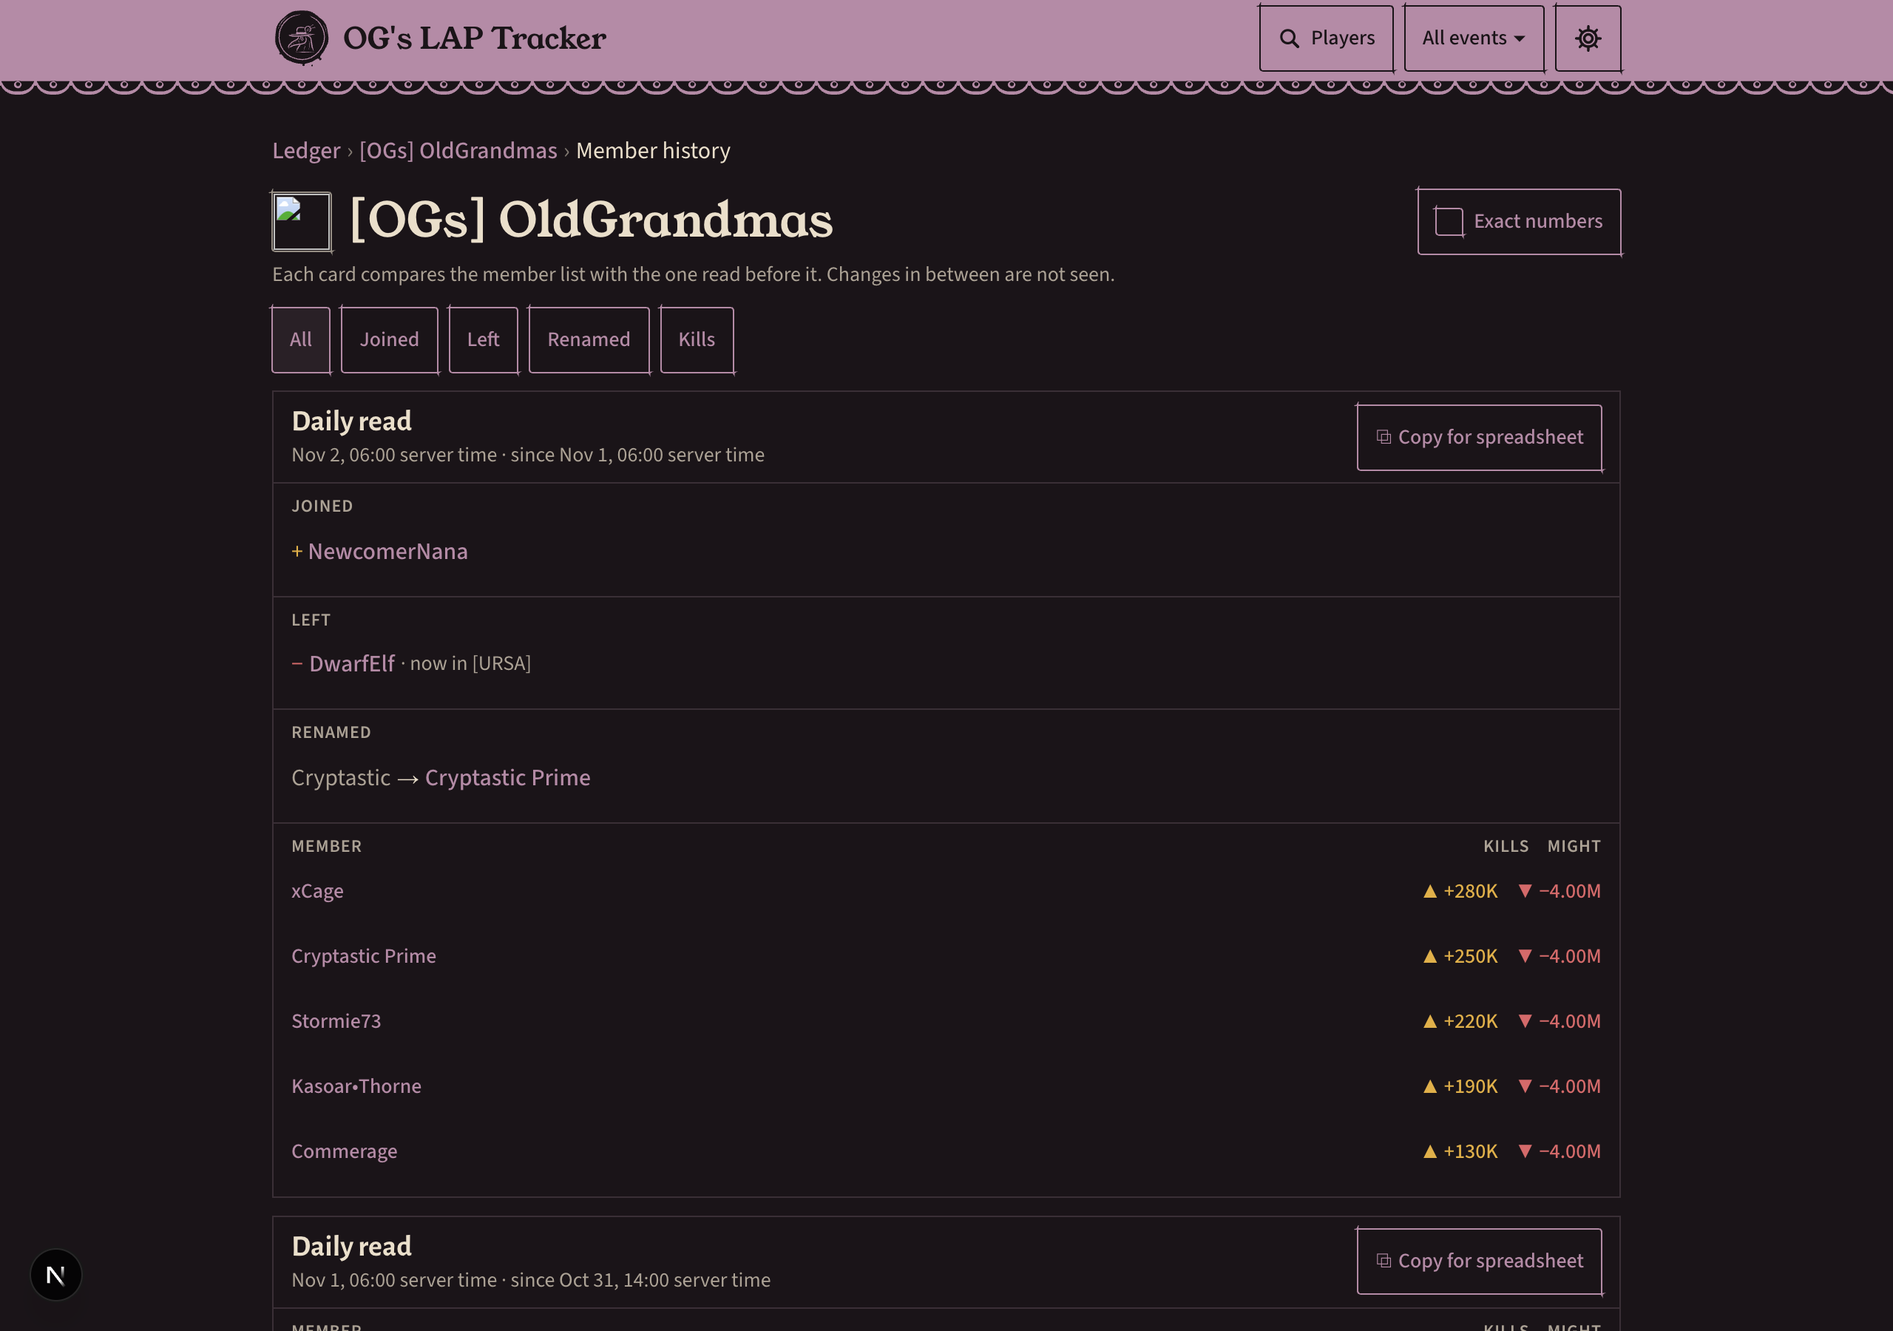
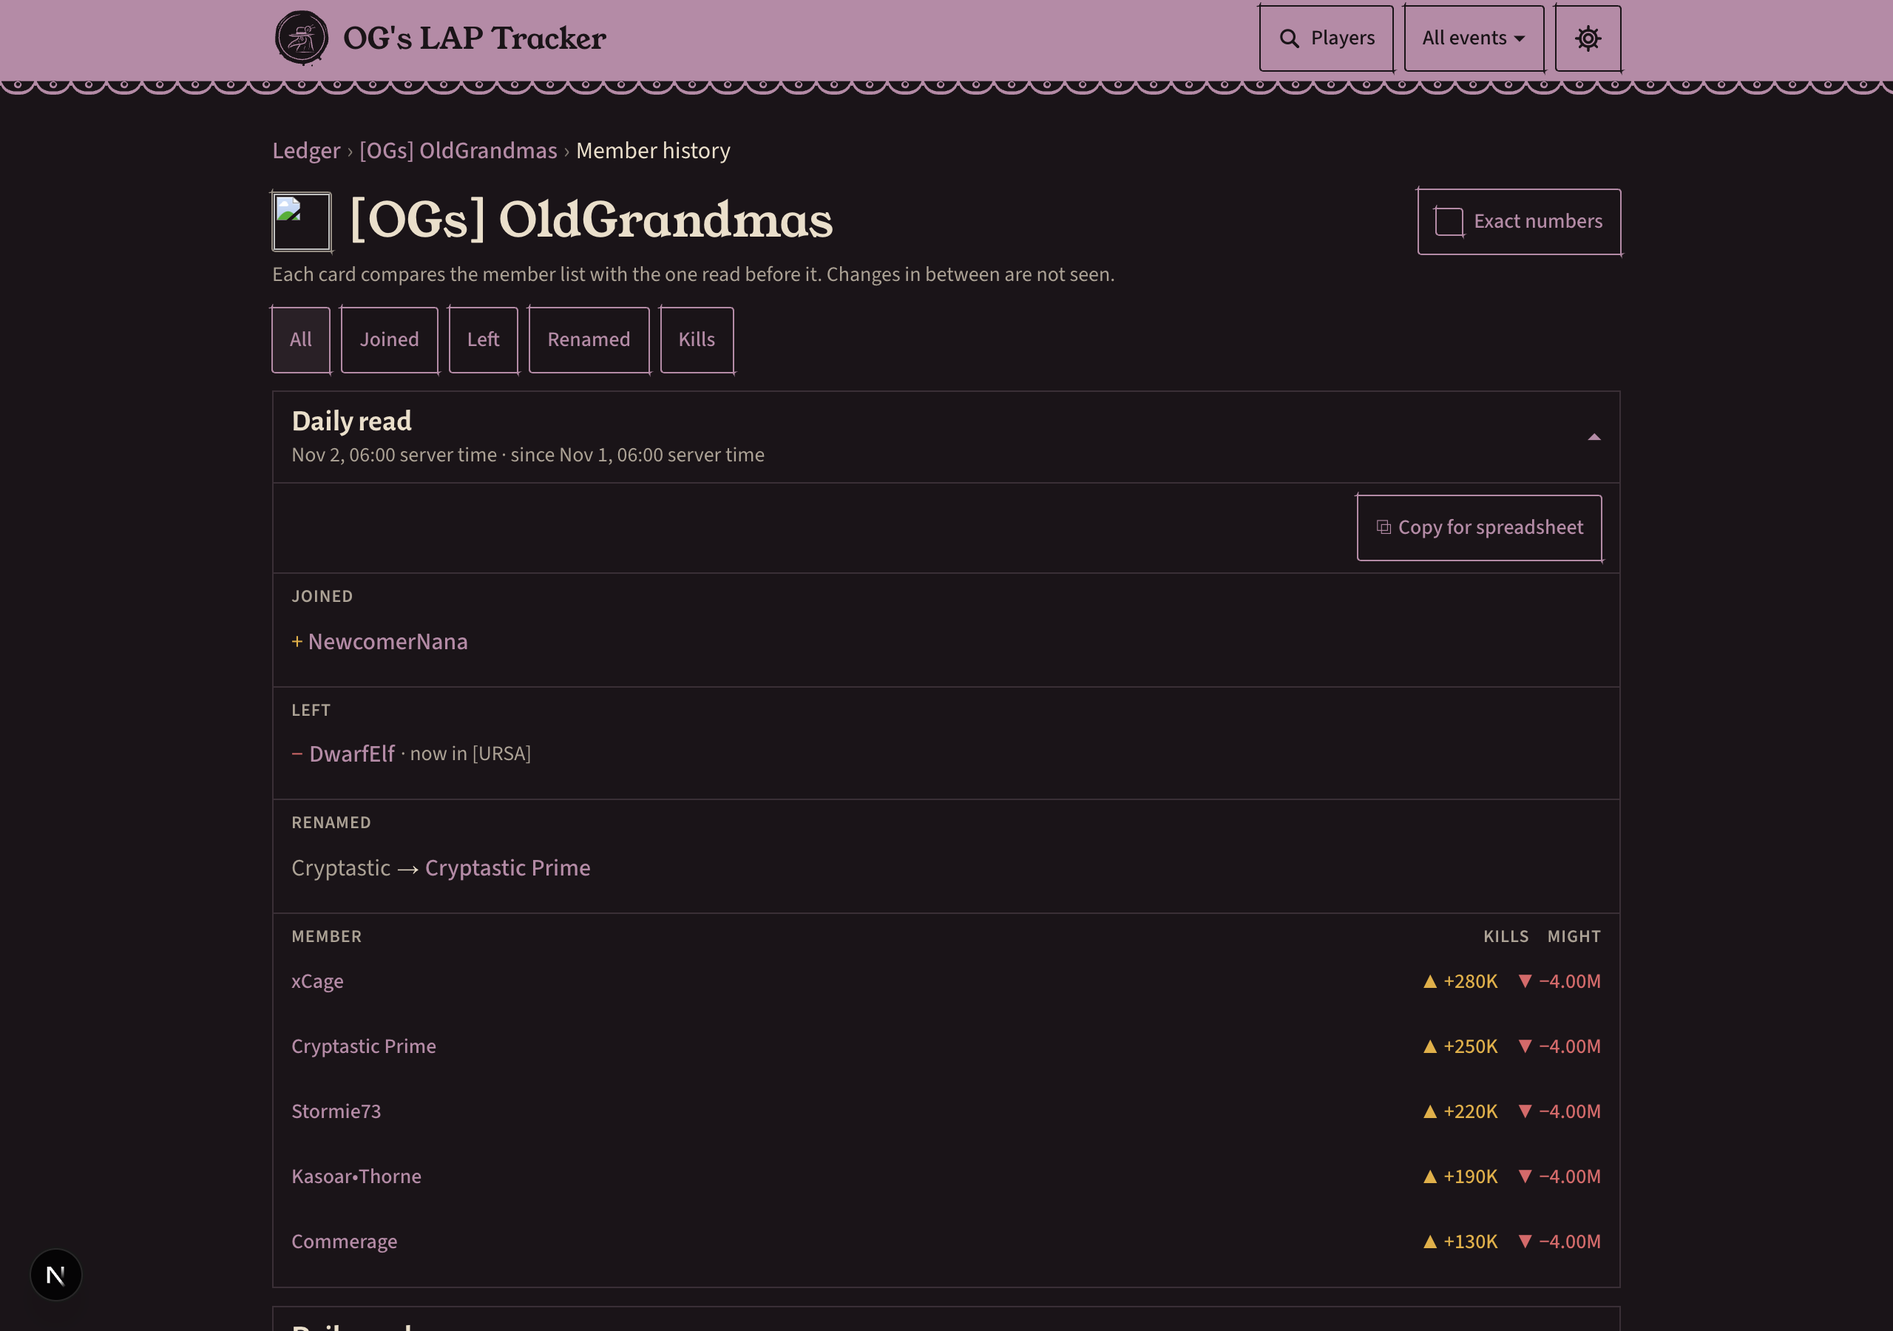
feat(alliance): member history cards collapse, newest open (#197)
Each roster card is a native <details>: only the page's first (newest)
card starts open, so the page opens on today's changes instead of a long
list. The copy button moved into the card body so tapping it never
toggles the card.

diff --git a/app/_ui/MemberHistory.tsx b/app/_ui/MemberHistory.tsx
@@ -99,11 +99,12 @@ const parts = (card: HistoryCard, filter: HistoryFilter | null) => ({
 export const matchesFilter = (card: HistoryCard, filter: HistoryFilter | null) =>
   filter === null || Object.values(parts(card, filter)).some(Boolean);
 
-/** When the data was read (a daily read, or an event's Start or End), since when, and the copy button. */
+/** The card's summary: when the data was read (a daily read, or an event's Start or End) and since when,
+ * with the ▾ that opens and closes it. The whole row is the 44 px control. */
 function CardHead({ card, clock, copy }: { card: HistoryCard; clock: Clock; copy: Dictionary }) {
   const h = copy.history;
   return (
-    <div className="flex flex-wrap items-center justify-between gap-x-3 gap-y-1 px-3 py-2">
+    <summary className="flex min-h-11 cursor-pointer items-center justify-between gap-3 px-3 py-2 [&::-webkit-details-marker]:hidden">
       <div className="min-w-0">
         <h2 className="font-subhead text-display-sm leading-tight">
           {card.event ? (
@@ -120,19 +121,48 @@ function CardHead({ card, clock, copy }: { card: HistoryCard; clock: Clock; copy
           {card.since && <> · {fill(h.since, { time: clock.at(card.since) })}</>}
         </p>
       </div>
-      <CopyRoster text={rosterTsv(card.roster, copy)} />
-    </div>
+      <span
+        aria-hidden="true"
+        className="text-plum transition-transform duration-150 group-open/card:rotate-180 motion-reduce:transition-none"
+      >
+        ▾
+      </span>
+    </summary>
   );
 }
 
+/** Left: `− Name · now in [TAG]`. */
+function LeftGroup({ card, copy }: { card: HistoryCard; copy: Dictionary }) {
+  return (
+    <Group label={copy.members.left}>
+      {card.left.map((m) => (
+        <li key={m.uid} className="inline-flex items-center gap-1">
+          <span aria-hidden="true" className="text-seal">
+            −
+          </span>
+          {player(m)}
+          {m.nowIn && (
+            <span className={`text-sm ${MUTED}`}>
+              · {fill(copy.history.nowIn, { tag: `[${m.nowIn.tag ?? m.nowIn.unionId}]` })}
+            </span>
+          )}
+        </li>
+      ))}
+    </Group>
+  );
+}
+
+/** A collapsible card (native `<details>`, no JavaScript); `open` for the page's newest card only. */
 export function HistoryCardView({
   card,
   filter,
+  open,
   clock,
   copy,
 }: {
   card: HistoryCard;
   filter: HistoryFilter | null;
+  open: boolean;
   clock: Clock;
   copy: Dictionary;
 }) {
@@ -141,54 +171,43 @@ export function HistoryCardView({
   const changes = card.joined.length + card.left.length + card.renamed.length + card.changed.length;
   return (
     <li className="mb-3 border border-rule">
-      <CardHead card={card} clock={clock} copy={copy} />
-      {card.since === null && (
-        <p className={`border-t border-rule px-3 py-2 text-sm ${MUTED}`}>{h.first}</p>
-      )}
-      {card.since !== null && changes === 0 && (
-        <p className={`border-t border-rule px-3 py-2 text-sm ${MUTED}`}>{h.noChange}</p>
-      )}
-      {show.joined && (
-        <Group label={copy.members.joined}>
-          {card.joined.map((m) => (
-            <li key={m.uid}>
-              <span aria-hidden="true" className="text-yarn">
-                +{" "}
-              </span>
-              {player(m)}
-            </li>
-          ))}
-        </Group>
-      )}
-      {show.left && (
-        <Group label={copy.members.left}>
-          {card.left.map((m) => (
-            <li key={m.uid} className="inline-flex items-center gap-1">
-              <span aria-hidden="true" className="text-seal">
-                −
-              </span>
-              {player(m)}
-              {m.nowIn && (
-                <span className={`text-sm ${MUTED}`}>
-                  · {fill(h.nowIn, { tag: `[${m.nowIn.tag ?? m.nowIn.unionId}]` })}
+      <details open={open} className="group/card">
+        <CardHead card={card} clock={clock} copy={copy} />
+        <div className="flex justify-end border-t border-rule px-3 py-2">
+          <CopyRoster text={rosterTsv(card.roster, copy)} />
+        </div>
+        {card.since === null && (
+          <p className={`border-t border-rule px-3 py-2 text-sm ${MUTED}`}>{h.first}</p>
+        )}
+        {card.since !== null && changes === 0 && (
+          <p className={`border-t border-rule px-3 py-2 text-sm ${MUTED}`}>{h.noChange}</p>
+        )}
+        {show.joined && (
+          <Group label={copy.members.joined}>
+            {card.joined.map((m) => (
+              <li key={m.uid}>
+                <span aria-hidden="true" className="text-yarn">
+                  +{" "}
                 </span>
-              )}
-            </li>
-          ))}
-        </Group>
-      )}
-      {show.renamed && (
-        <Group label={h.renamed}>
-          {card.renamed.map((r) => (
-            <li key={r.uid} className="inline-flex items-center gap-1">
-              <span className={MUTED}>{r.from}</span>
-              <span aria-hidden="true">→</span>
-              {player({ uid: r.uid, name: r.to })}
-            </li>
-          ))}
-        </Group>
-      )}
-      {show.changed && <Changes card={card} copy={copy} />}
+                {player(m)}
+              </li>
+            ))}
+          </Group>
+        )}
+        {show.left && <LeftGroup card={card} copy={copy} />}
+        {show.renamed && (
+          <Group label={h.renamed}>
+            {card.renamed.map((r) => (
+              <li key={r.uid} className="inline-flex items-center gap-1">
+                <span className={MUTED}>{r.from}</span>
+                <span aria-hidden="true">→</span>
+                {player({ uid: r.uid, name: r.to })}
+              </li>
+            ))}
+          </Group>
+        )}
+        {show.changed && <Changes card={card} copy={copy} />}
+      </details>
     </li>
   );
 }

diff --git a/app/(pages)/alliances/[unionId]/history/page.tsx b/app/(pages)/alliances/[unionId]/history/page.tsx
@@ -1,6 +1,7 @@
 // `/alliances/[unionId]/history[?show=joined|left|renamed|kills][&before=<ISO time>]`: member history
 // (D60, issue 197). One card per stored roster (daily reads and public event snapshots), newest first, 14
-// a page. No event in the URL: the history belongs to none, so the header's selector reads "All events".
+// a page; only the first card starts open. No event in the URL: the history belongs to none, so the
+// header's selector reads "All events".
 // A union id with no usable roster is a 404.
 import type { Metadata } from "next";
 import Link from "next/link";
@@ -193,11 +194,12 @@ export default async function MemberHistoryPage({
           <EmptyState>{copy.history.none}</EmptyState>
         ) : (
           <ul>
-            {cards.map((c) => (
+            {cards.map((c, i) => (
               <HistoryCardView
                 key={c.at.toISOString()}
                 card={c}
                 filter={show}
+                open={i === 0}
                 clock={clock}
                 copy={copy}
               />

diff --git a/docs/DESIGN.md b/docs/DESIGN.md
@@ -307,7 +307,7 @@ The whole list. Anything else is a composition of these; a new one needs a line 
 - **`stat-table` / `stat-card`** — one `StatTable` component: table ≥ 640 px, cards below. Rows ≥ 44 px; numerals right-aligned. The card is simple — rank, picture, `[TAG] Name`, then Might, Kills, Members (or Level) with their change — and the full figures open under a framed "Details ▾" control (owner, 2026-11-05). At ≥ 640 px each value keeps its label as screen-reader text.
 - **`event-compare`** — the compare page's card (`app/_ui/EventCompare.tsx`, picker `app/_ui/ComparePicker.tsx`; D57, #177): `history-row` turned on alliances. The name (badge and `[TAG] Name`, or photo and name for a member, with the member's Might) on top below 640 px, spanning both lines from 640 px; then a line per event: its date (with the time when both events fall on one day) and the ledger rank by might at After with its move, then each figure's change during that event (Might, Kills, Members for an alliance; Might, Kills for a member), percent of the Before value under it below 640 px, `*` (D33) when it fell while members left. A side that is missing, stale or failed reads `—`; the row's one mark is the worst side of either event. A member not in the alliance in an event reads "not in alliance" there. Details: the reference values from the first event to the second, and who joined or left between them. The totals band above the list sums only the alliances with a change in both events and says how many. The picker is two native selects (A, B) in a GET form, a 44 px ⇄ swap link and the primary "Compare" button: no JavaScript needed, the URL is the link to share.
 - **`history-row`** — the player page's row per event (`PlayerAcrossEvents`, Session 7g, 07c N2): the same card and Details control, turned on its side. `#n` and the event on one baseline, by its title with the date under it, or by its date while it keeps its generated name (D49); Might, Kills and Level are columns (heads inside the card below 640 px, in the table header above); each line under them has its head on the left — the time the values are from (`14:00 server`), `since 10:00` (the change inside the event) and `since Oct 24` (the change since the previous event) — so the two changes sit in the same columns and read apart. Below 640 px the percent goes under the change. The alliance is named on the row only when the player has been in more than one; the before values are in Details (snapshot times as heads, the in-alliance rank in `Rank`).
-- **`member-history`** — one stored roster (`app/_ui/MemberHistory.tsx`, D60): the head names the read (a daily read, or the event and Start or End), its time and "since" the previous usable read, with the 44 px "Copy for spreadsheet" button on the right; then groups, each under a label: Joined (`+ Name`), Left (`− Name · now in [TAG]`), Renamed (`Old → New`), then a three-column list (Member, Kills, Might) of the members whose figures changed, most kills gained first, the first 10 shown and the rest under "Show all (n)". Names link to the player page. The same card at every width.
+- **`member-history`** — one stored roster (`app/_ui/MemberHistory.tsx`, D60), a native `<details>` card: only the page's first (newest) card is open, the rest show only their head. The head is the ≥ 44 px summary row: the read (a daily read, or the event and Start or End), its time and "since" the previous usable read, and a ▾ that turns when open. Inside: the "Copy for spreadsheet" button on the right, then groups, each under a label: Joined (`+ Name`), Left (`− Name · now in [TAG]`), Renamed (`Old → New`), then a three-column list (Member, Kills, Might) of the members whose figures changed, most kills gained first, the first 10 shown and the rest under "Show all (n)". Names link to the player page. The same card at every width.
 - **`details-table`** — what "Details" opens, the same at every depth (`DetailTable` in `app/_ui/DetailLines.tsx`, Session 7d, 07c B2): one small table, a row per figure (Might, Kills, Members, then Ranking — the game's server rank), the two moments as column heads — the snapshot times (`Server time` in the corner, `10:00`, `→ 14:00`, with `○`/`✗` beside a side that is stale or failed) or, on an alliance's history rows, the two events' dates — then `Change` (no percent: the card has it) and `Rank`, the ledger rank `#n` with its move (owner, 2026-11-05: heads in words, "Ranking" for the server row). Tabular, right-aligned; notes in seal under the change.
 - **`delta-up` / `delta-down`** — `value · ±delta with arrow · ±%`; kills with the member-loss note when negative (the words sit in Details; the row carries only the `member-mark`).
 - **`member-mark`** — a footnote star `*` after a Might or Kills change that is negative while members left (`Delta`'s `memberMark`, set by `fellWithLeavers` in `app/_ui/event-rows.ts`; session 10). The `*` is in the change's colour run, aria-hidden, with the legend words as screen-reader text. The legend lists `* Includes member changes` only on a page that shows at least one `*`. Main page and alliance page; the player page has no alliance totals. Not `±`: `±` already means "change" (`± Kills` sort chips) and beside a number it reads as a margin of error.

diff --git a/docs/handoff/08zzt-alliance-history.md b/docs/handoff/08zzt-alliance-history.md
@@ -38,7 +38,7 @@ Owner, 2026-11-10, on spike 08zzr (PR #203): "lets go with the option C, you can
   - `lib/daily-read.test.ts`, 2 tests: a quota below the reserve makes no roster call; a failed alliance gives an error row, a partial read, and the day is read once.
   - `app/api/tick/route.test.ts`, 1 test: the read runs once on Friday 2026-11-06 (06:05 and 06:20 server) and not on Saturday 2026-11-07, the scheduled event's day; it creates no event of its own.
   - `lib/queries/member-history.test.ts`, 2 tests: joined, left with `nowIn`, renamed and changed, with a stale roster skipped; paging, and null for an unknown alliance.
-- Screenshots: `docs/screenshots/08zzt-alliance-history-{360,1280}-{light,dark}.png`, `08zzt-alliance-history-360-light-left.png` (the Left filter), `08zzt-alliance-link-360.png` (the link on the alliance page).
+- Screenshots: `docs/screenshots/08zzt-alliance-history-{360,1280}-{light,dark}.png`, `08zzt-alliance-history-360-light-full.png` (whole page: one card open, seven closed), `08zzt-alliance-history-360-light-left.png` (the Left filter), `08zzt-alliance-link-360.png` (the link on the alliance page).
 
 ## Decisions
 - **14 cards per page, not the spike's 30.** Each card carries its roster's spreadsheet text (≈ 3.5 KB per 100 members) for the copy button. 14 cards are ≈ 50 KB, 30 would be ≈ 105 KB on a phone.
@@ -47,6 +47,7 @@ Owner, 2026-11-10, on spike 08zzr (PR #203): "lets go with the option C, you can
 - **"now in [TAG]"** uses the member's newest sighting in any stored roster (daily or public event). It is shown only when that sighting is in another alliance. It is read from public rosters only, never from `joined_at`.
 - **Event cards are named** by the event's label (D49) and the capture-window words Start / End (`copy.status.start/end`), so no new phase words were needed.
 - **Cards list only members whose kills or might changed**, the first 10, then "Show all (n)" (a `<details>`, no JavaScript). The full roster goes only into the spreadsheet copy.
+- **Collapsible cards** (owner, 2026-11-10): each card is a native `<details>` (works without JavaScript). Only the first card on the page is open, i.e. the newest on the first page and, after "Older ↓", the newest of that page. The copy button moved from the head into the card body: a button inside `<summary>` would also toggle the card.
 - **No avatars on the cards**: names only, to keep 14 cards light. Names link to the player page.
 
 ## Deviations
@@ -66,6 +67,7 @@ Owner, 2026-11-10, on spike 08zzr (PR #203): "lets go with the option C, you can
   - The Nov 3 stale read is skipped, and the Nov 2 card reads "since Nov 1, 06:00 server time".
   - "Copy for spreadsheet" with clipboard permission granted: the button reads "Copied" and the clipboard holds 101 lines. The header is `Name\tMight\tKills`, then e.g. `Sashalom\t162567834\t1942393`, 3 fields per row.
   - `?show=left`: 1 card, with "now in [URSA]".
+  - Collapsible cards: 8 cards, 1 open at each width and theme; tapping the second card's head opens it (2 open); the head row is 81 px tall at 360 px.
   - The alliance page has the "Member history" link.
   - `/alliances/99/history`, `/alliances/abc/history` and `?before=nope` answer 404.
 - No upstream call, no `/api/quota`, no `/api/tick` against a deployment.

diff --git a/docs/DECISIONS.md b/docs/DECISIONS.md
@@ -533,5 +533,5 @@ Why: the owner wants to see who joined or left an alliance, who changed name and
 - **Budget.** One `/v1/quota` call first. The read starts only if `remaining ≥ requiredQuota(k) + requiredQuota(20)` (`dailyReadQuota`, INVARIANT `budget.daily-keeps-event-reserve`): 100 for 20 alliances. Cost 1 + k calls a day (21) on six days of seven, up to 1 + 4k in an outage. `MAX_UPSTREAM_CALLS`, the 100 s deadline and "429 stops the run" apply as for snapshots.
 - **No internal fallback.** D5's fallback covers event snapshots only; a failed alliance gets an error row and is a gap in its history.
 - **Outcome.** The `daily_reads` row (status, calls, quota before, error) and `tick_log.outcome = daily-read`. `run_logs` needs a snapshot and is not used. One admin Discord line when the read is `partial` or `failed`; nothing public.
-- **The page** `/alliances/[unionId]/history` ("Member history"), linked from the alliance page's title row. It merges the alliance's daily rosters with its public event rosters (`publicEvent`), newest first, 14 per page (`?before=`). Each card diffs one usable roster (fresh, no error, not empty) against the previous usable one by uid (`compute.rosterDiff`): joined, left, renamed, and the members whose kills or might changed. A stale or failed roster is skipped, and the card's "since" names the span. A leaver whose newest sighting is in another tracked alliance shows "now in [TAG]". Joined and left come only from the diff; `joined_at`, online status and coordinates are never read. Filters: All, Joined, Left, Renamed, Kills (`?show=`).
+- **The page** `/alliances/[unionId]/history` ("Member history"), linked from the alliance page's title row. It merges the alliance's daily rosters with its public event rosters (`publicEvent`), newest first, 14 per page (`?before=`). Each card diffs one usable roster (fresh, no error, not empty) against the previous usable one by uid (`compute.rosterDiff`): joined, left, renamed, and the members whose kills or might changed. A stale or failed roster is skipped, and the card's "since" names the span. A leaver whose newest sighting is in another tracked alliance shows "now in [TAG]". Joined and left come only from the diff; `joined_at`, online status and coordinates are never read. Filters: All, Joined, Left, Renamed, Kills (`?show=`). Each card is a collapsible `<details>`; only the page's first (newest) card is open (owner, 2026-11-10: not to overwhelm at first sight). The copy button sits inside the card, not in its summary, so a tap on it never toggles the card.
 - **Copy for spreadsheet.** Each card has a button that copies its whole member list as tab-separated rows (`Name`, `Might`, `Kills` in the page's language, then one row per member by might, plain integers). The text is built on the server; the button calls `navigator.clipboard.writeText`. A name starting with `=`, `+`, `-` or `@` gets a leading apostrophe, so a spreadsheet keeps it as text instead of running it as a formula.
